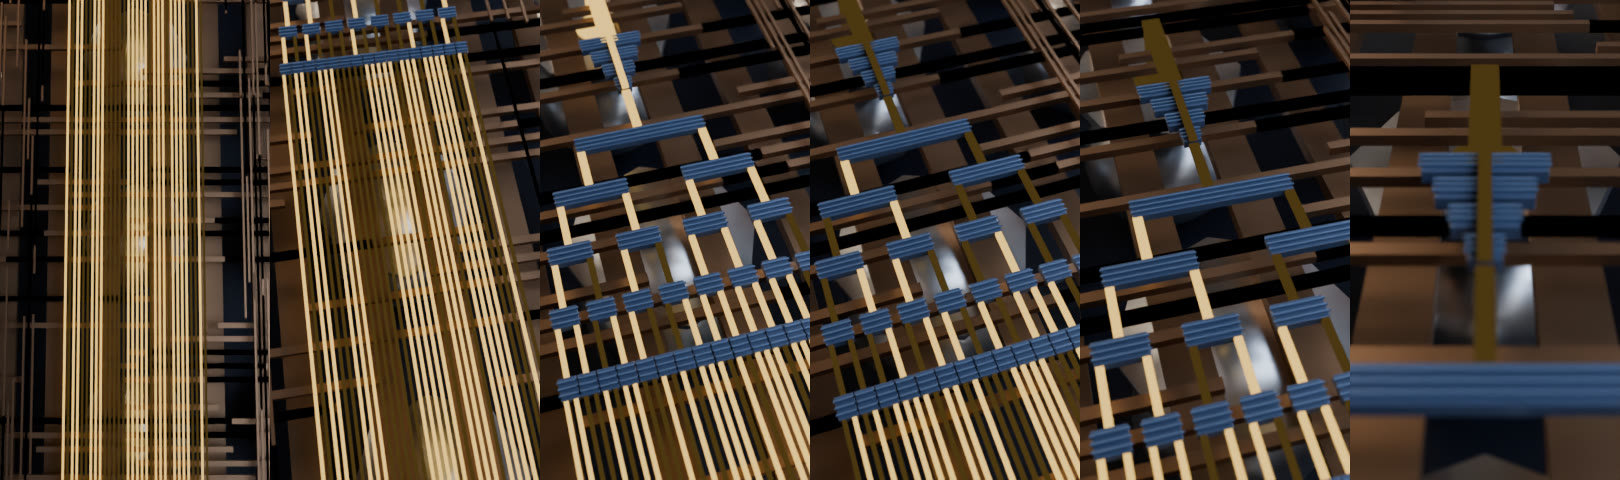
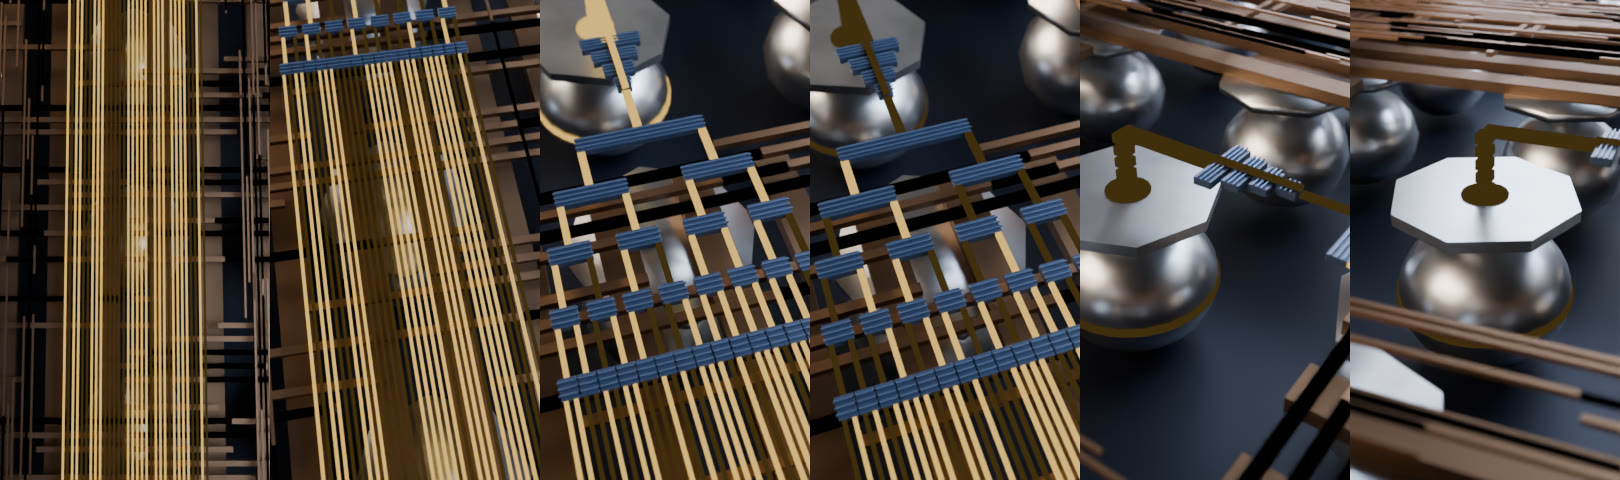
光互连 01（3D 版）S03：结尾镜头落到输出通孔和微凸点，README 更新粗模已知问题
- 通孔和微凸点周围清出一块（示意），信号从哪里离开芯片看得见
- 亮线发光强度调低；预览接触表重出
- 科学审查表：审查方正在写第 2 轮复核记录（进行中的版本）

Claude-Session: https://claude.ai/code/session_017cWy2BExjdDcJniiU2gDVE

diff --git a/episodes/guanghulian/01-journey-3d/blender/s03_serdes.py b/episodes/guanghulian/01-journey-3d/blender/s03_serdes.py
@@ -18,7 +18,7 @@ import common as C
 shot = C.Shot('S03'); args = C.parse_args(); sc = C.reset(shot); rnd = random.Random(3); rad = math.radians
 
 N = 32; TW = 3.2; TB = TW / N            # 并行一拍 3.2 秒；串行一拍 0.1 秒（3 帧）。真实约每秒上百亿拍，这里慢放约百亿倍
-ON, OFF = 1.7, 0.08                       # 亮 / 暗时的发光强度
+ON, OFF = 1.15, 0.06                       # 亮 / 暗时的发光强度
 STAGE = 8.0                               # 每一级串化电路沿 X 占 8 µm
 X_DRV0, X_DRV1, X_PAD = 46.0, 58.0, 72.0  # 输出驱动的起止、凸点的位置
 Z_TOP, Z_BUMP = -9.0, -24.0               # 上层厚金属的高度、凸点中心的高度
@@ -84,19 +84,25 @@ for k in range(5): net.box((2.0, 2.0, abs(Z_TOP) / 5 * 0.72), (X_PAD, 0, -abs(Z_
 net.obj('输出网络', out_mat, sig)
 bump_sig = C.Mesh(); bump_sig.sphere(12.5, (X_PAD, 0, Z_BUMP), (1, 1, 0.85)); bump_sig.obj('凸点_信号', C.pbr('凸点（信号）', (0.62, 0.63, 0.64), metallic=1.0, rough=0.3), sig, smooth=True)
 pad = C.Mesh(); pad.cyl(13, 1.6, (X_PAD, 0, Z_TOP - 0.8), seg=8); pad.obj('焊盘_信号', M['bump'], sig)
-halo = C.Mesh(); halo.cyl(3.2, 0.3, (X_PAD, 0, Z_TOP + 0.1), seg=16); halo.obj('通孔落点亮斑', out_mat, sig)
+halo = C.Mesh(); halo.cyl(3.2, 0.3, (X_PAD, 0, Z_TOP + 0.1), seg=16); halo.cyl(12.7, 1.2, (X_PAD, 0, Z_BUMP), seg=32); halo.obj('信号落点亮环', out_mat, sig)
 
 # ---------- 周围的连线（环境）：三层直角走线 + 凸点阵列 + 下方的中介层表面 ----------
 env = C.collection('环境'); l1 = C.Mesh(); l2 = C.Mesh(); l3 = C.Mesh(); bumps = C.Mesh()
+CLR = 36.0                      # 输出通孔和微凸点周围清出一块，观众才看得见信号从哪里离开芯片（示意：真实芯片这里同样布满连线）
 def keepout(x, y, lx):          # 信号线和串化电路周围留空
-    return (x - lx / 2 < X_PAD + 16) and abs(y) < 21
+    return ((x - lx / 2 < X_PAD + 16) and abs(y) < 21) or (abs(x - X_PAD) < CLR + lx / 2 and abs(y) < CLR)
 for _ in range(1400):
     lx = rnd.uniform(8, 90); x = rnd.uniform(-330, 190); y = round(rnd.uniform(-110, 110)) + 0.5
     if not keepout(x, y, lx): l1.box((lx, 0.45, 0.5), (x, y, 0))
 for _ in range(420):
     ly = rnd.uniform(15, 120); x = round(rnd.uniform(-330, 190) / 3) * 3; y = rnd.uniform(-110, 110)
-    l2.box((1.2, ly, 1.0), (x, y, -3.2))
-for k in range(-9, 10): l3.box((560, 5.0, 2.0), (-70, k * 12.0 + 6.0, Z_TOP + 1.0))
+    if not (abs(x - X_PAD) < CLR and abs(y) < CLR + ly / 2): l2.box((1.2, ly, 1.0), (x, y, -3.2))
+for k in range(-9, 10):
+    y = k * 12.0 + 6.0
+    if abs(y) < CLR:
+        xa, xb = -350.0, X_PAD - CLR; l3.box((xb - xa, 5.0, 2.0), ((xa + xb) / 2, y, Z_TOP + 1.0))
+        xa, xb = X_PAD + CLR, 210.0; l3.box((xb - xa, 5.0, 2.0), ((xa + xb) / 2, y, Z_TOP + 1.0))
+    else: l3.box((560, 5.0, 2.0), (-70, y, Z_TOP + 1.0))
 for ix in range(-8, 6):
     for iy in range(-3, 4):
         if (ix, iy) == (0, 0): continue
@@ -110,9 +116,9 @@ C.box('中介层表面', (900, 500, 1.0), (-60, 0, Z_BUMP - 12.5), M['floor'], e
 cam, tgt = C.add_camera('cam_S03', lens=50, fstop=1.0, clip=(0.05, 5000))
 def cam_fn(t):
     a = C.smoother(C.seg(t, 23.0, 27.4)); h = C.seg(t, 27.4, 35.5); b = C.smoother(C.seg(t, 35.5, 38.9))
-    fx = C.lerp(-110, 20, a) + 2.0 * h + C.lerp(0, X_PAD - 22, b); fz = C.lerp(0, Z_TOP - 10, b)
-    d = C.loglerp(150, 78, a) * C.lerp(1.0, 0.94, h) * C.loglerp(1.0, 0.95, b)
-    el = rad(C.lerp(82, 56, a) + C.lerp(0, -3, h) + C.lerp(0, -14, b)); az = rad(180 + C.lerp(0, -14, a) + C.lerp(0, -6, h) + C.lerp(0, 20, b))
+    fx = C.lerp(-110, 20, a) + 2.0 * h + C.lerp(0, X_PAD - 22, b); fz = C.lerp(0, Z_BUMP + 8, b)
+    d = C.loglerp(150, 78, a) * C.lerp(1.0, 0.94, h) * C.loglerp(1.0, 1.25, b)
+    el = rad(C.lerp(82, 56, a) + C.lerp(0, -3, h) + C.lerp(0, -22, b)); az = rad(180 + C.lerp(0, -14, a) + C.lerp(0, -6, h) + C.lerp(0, -50, b))
     focus = Vector((fx, 0, fz)); loc = focus + d * Vector((math.cos(el) * math.cos(az), math.cos(el) * math.sin(az), math.sin(el)))
     return dict(loc=loc, tgt=focus, fstop=50e-3 / (2 * 0.006 * d))
 C.animate_camera(cam, tgt, cam_fn, shot)

diff --git a/episodes/guanghulian/01-journey-3d/preprod/03_科学审查表.md b/episodes/guanghulian/01-journey-3d/preprod/03_科学审查表.md
@@ -21,26 +21,26 @@
 | 镜头 | 审查点 | 样稿的做法 | 风险 | 状态 |
 |---|---|---|---|---|
 | S01 | 机柜和服务器不能是消费级硬件 | 按机架规格程序建模；8 GPU 服务器；不用用户网盘里的 RTX 4090 模型当主体 | 服务器前面板细节不足会显得像玩具 | 通过（8U 风冷 8-GPU 形态已核；成片逐帧再查） |
-| S01 | 路径线不能让人以为有一根线直接连着两颗 GPU | 路径线贴着真实走线路径（板上 → 面板光口 → 跳线 → 线槽 → 对面）；角注「路径已简化」 | — | 要改：光口在机箱哪一面要先定（见记录·必改 7）；S10 路径线再出现时角注要再挂 |
-| S01 | 光纤不发光 | 跳线是黄色护套，本身不亮；青色只出现在路径线上 | 观众可能以为光纤本来就发青光，靠角注「青色为示意」（S06 起常驻） | 要改：S01、S10 路径线出现青色时就要有「青色为示意」，不能等到 S06（见记录·必改 7） |
-| S02 | 封装结构 | 有机基板 + 加强环 + 硅中介层 + 大芯片 + 8 颗 HBM；散热器先移开 | 实际大芯片上面有散热盖或直接贴冷板，芯片背面朝上，从上面看到的是硅背面，不是电路。穿进去之后才看到连线层，顺序要对 | 要改：叠层缺两级，凸点间距口径不对（见记录·必改 1） |
+| S01 | 路径线不能让人以为有一根线直接连着两颗 GPU | 路径线贴着真实走线路径（板上 → 面板光口 → 跳线 → 线槽 → 对面）；角注「路径已简化」 | — | 待用户定：光口在机箱哪一面（分镜 S01 已列出两种做法）。角注已补，这部分通过（第 2 轮） |
+| S01 | 光纤不发光 | 跳线是黄色护套，本身不亮；青色只出现在路径线上 | 观众可能以为光纤本来就发青光，靠角注「青色为示意」（S06 起常驻） | 通过（第 2 轮：S01、S10 的角注已补，时间盖住了路径线） |
+| S02 | 封装结构 | 有机基板 + 加强环 + 硅中介层 + 大芯片 + 8 颗 HBM；散热器先移开 | 实际大芯片上面有散热盖或直接贴冷板，芯片背面朝上，从上面看到的是硅背面，不是电路。穿进去之后才看到连线层，顺序要对 | 通过（第 2 轮：叠层已更正）。尾巴：微凸点间距文件里写约 40 µm，脚本用的是 45 µm，统一一下 |
 | S02 | 「穿过硅」的方向 | 倒装芯片：背面朝上，有源层和金属连线层在下面，凸点朝下接基板 | 画反了行家一眼就看出来 | 通过（方向描述正确；穿过硅背面后先到晶体管层，再到它下方的金属连线层） |
 | S03 | 并行线上的数据怎么画 | 每条线整体亮或暗，一拍同时换；不画沿线移动的小球 | — | 通过 |
 | S03 | 串行输出比并行快多少 | 32 条并 1 条，串行节拍是并行的 32 倍；画面里按可见的速度比示意，角注「已极度慢放」 | 真实 SerDes 的并行位宽不一定是 32，标「示意画 32 条」 | 通过（两级画法下 32 倍成立） |
-| S03 | 输出线往哪走 | 倒装芯片：输出经金属层到凸点，向下进基板。画面里「上升」还是「下降」取决于相机朝向，要和 S02 的方向一致 | 时间轴里写的是「上升」，建模时按倒装方向改正 | 要改（主 agent 已知；另：输出线向下先到微凸点和中介层，不是直接进基板，见记录·必改 1） |
+| S03 | 输出线往哪走 | 倒装芯片：输出经金属层到凸点，向下进基板。画面里「上升」还是「下降」取决于相机朝向，要和 S02 的方向一致 | 时间轴里写的是「上升」，建模时按倒装方向改正 | 通过（第 2 轮：分镜、timeline、脚本注释都已改成向下，先到微凸点和中介层） |
 | S04 | 差分走线 | 两条并行铜线，各带相反的电压；亮暗图样两条线互补 | 只画一条线亮会把差分画成单端 | 通过 |
 | S04 | 模糊的原因 | 沿线对比度下降、边界变糊；波形从方正变圆钝；眼图合上 | 不能画成「信号变暗」就完了：损耗不只是变小，是高频成分掉得更多，所以边沿变缓、前后符号互相拖尾 | 通过（按「风险」栏执行：边沿变缓 + 拖尾，不只是变暗） |
 | S04 | 符号长度 | 每个符号在板上约 3 mm，按比例排 | — | 通过（重算 3.06 mm；对应 53.125 GBd，每个符号实际载 2 个比特，FACTS 要写明） |
 | S05 | DSP 不是必经器件 | 旁白说「常见的光模块里」；角注全程挂着「也有不带 DSP 的方案（如线性直驱 LPO）」 | — | 通过 |
 | S05 | DSP 做了什么 | 「重新认清、理整齐」= 均衡 + 时钟恢复 + 重新判决 + 重新发出 | 不展示内部，不编造内部结构 | 通过 |
-| S06 | 三个器件的关系 | 激光器 → 波导 → 调制器（光路）；DSP → 驱动器 → 调制器电极（电路）；两路在调制器相遇 | 画成「电变成了光」是错的：电没有变成光，是电控制了光的强弱 | 要改：器件关系通过；但调制器的尺寸和特写里光的画法要改（见记录·必改 5、6） |
+| S06 | 三个器件的关系 | 激光器 → 波导 → 调制器（光路）；DSP → 驱动器 → 调制器电极（电路）；两路在调制器相遇 | 画成「电变成了光」是错的：电没有变成光，是电控制了光的强弱 | 通过（第 2 轮：调制器改成毫米级两臂，特写里整段光同步亮暗，激光器是单独芯片） |
 | S06 | 激光是连续光 | 调制器之前的光带亮度均匀，没有明暗 | — | 通过 |
 | S06 | 光不外溢 | 光约束在波导芯区，只画很淡的倏逝尾 | — | 通过 |
-| S07 | 尺寸比例 | 波导 0.4 µm、纤芯 8.2 µm、包层 125 µm、头发 70–80 µm，同一画面里按真实比例 | 波导和纤芯差 20 倍，直接对接会损失绝大部分光，必须画出模斑转换器 | 通过（数值已核）；屏幕字「纤芯 约 9 µm」和本表 8.2 µm 的口径要统一（见记录·建议 1） |
-| S07 | 偏移损耗的数字 | 按高斯模场估算：偏 2 µm 约 80%，偏 5 µm 约 30% | 这是估算，角注写明 | 要改：重算无误（0.83、0.31），但读数是「相对对准时」，对准时并不是 100%（见记录·必改 2） |
+| S07 | 尺寸比例 | 波导 0.4 µm、纤芯 8.2 µm、包层 125 µm、头发 70–80 µm，同一画面里按真实比例 | 波导和纤芯差 20 倍，直接对接会损失绝大部分光，必须画出模斑转换器 | 通过（第 2 轮：屏幕字已统一成「约 8–9 µm」）。尾巴：分镜尺度总览里还有一处「纤芯 9 µm」 |
+| S07 | 偏移损耗的数字 | 按高斯模场估算：偏 2 µm 约 80%，偏 5 µm 约 30% | 这是估算，角注写明 | 通过（第 2 轮：读数已标「相对对准时」，角注写明假设） |
 | S07 | 漏掉的光去哪了 | 画成进入包层后散掉 | 不要画成反射回去或凭空消失 | 通过 |
-| S08 | 光纤里信号不变糊 | 亮暗图样一路保持清晰 | 几公里以上色散会让它变糊，片中只到「几百米、几公里」，在数据中心范围内成立 | 要改：结论成立（1310 nm 附近、2 km 以内，估算展宽不到 1 ps）；但机房尺度上的亮暗图样不可能按真实符号长度画，要标示意（见记录·必改 6） |
-| S08 | 「不是更快」 | 旁白明说；屏幕字「不是更快，是损耗小、传得远」 | 用词红线：不说「光更快 / 一样快」 | 要改：「不是更快」这句通过；同镜头屏幕字「每公里只损失约 7%–8%」没写条件（见记录·必改 3）；n14、n35 的「跑得越快」和这里的「更快」同词不同义（见记录·必改 4） |
+| S08 | 光纤里信号不变糊 | 亮暗图样一路保持清晰 | 几公里以上色散会让它变糊，片中只到「几百米、几公里」，在数据中心范围内成立 | 通过（第 2 轮：已标「示意，未按比例」）。尾巴：S08 角注把「已慢放」那半句丢了，要补回 |
+| S08 | 「不是更快」 | 旁白明说；屏幕字「不是更快，是损耗小、传得远」 | 用词红线：不说「光更快 / 一样快」 | 待用户定：n14、n35「跑得越快」的改法（旁白草案「和原稿不一样的地方」第 5 条）。「不是更快」和损耗屏幕字通过（第 2 轮） |
 | S09 | 探测器输出很弱 | 金色电流亮度明显低于 S04，过了放大器才变亮 | — | 通过（量级已重算，见记录 F15） |
 | S09 | 解串和串化成镜像 | 1 → 32，构图和 S03 左右相反 | 接收端其实还要做时钟恢复，旁白用「把 0 和 1 认清」一句带过 | 通过 |
 | S10 | 「每条通道每秒上千亿次」 | 每通道 100 Gb/s 量级 | 说清楚是每条通道 | 通过（106.25 Gb/s = 每秒 1.06 × 10¹¹ 个比特） |
